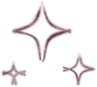
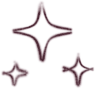
부모님 섹션(별 진하게·가족사진 확대·테두리 축소·아기사진 위치 변경), 편지 섹션 제목 제거 및 신랑 편지 하단 페이드·갤러리 사이 흰 여백 제거, 계좌 3건 추가 및 연락하기 버튼 제거

Changed region(s): [[0.1053, 0.046, 0.7789, 0.7126], [0.6316, 0.5977, 0.9895, 0.9885], [0.0, 0.6667, 0.3158, 0.9885]]

diff --git a/css/style.css b/css/style.css
@@ -399,15 +399,15 @@ body {
 .letter {
   background: #fff;
   color: #1c1a1a;
-  padding-left: 0;
-  padding-right: 0;
+  padding: 0 0 0;   /* 제목이 없으므로 위·아래 여백 없이 사진으로 바로 시작 */
 }
 .letter .section__label { color: #c0607a; }
 .letter .section__title { color: #1c1a1a; }
 .letter .section__title::after { background: #c0607a; opacity: .7; }
 
 .lt { margin-top: 46px; background: #fff; }
-.lt:first-child { margin-top: 30px; }
+.lt:first-child { margin-top: 0; }
+.lt:last-child .lt__frame { margin-bottom: 0; }
 /* 손글씨 — 사진 위 흰 여백에 */
 .lt__hand {
   margin: 0 9% 22px;
@@ -433,6 +433,19 @@ body {
     #fff 0%, rgba(255,255,255,.97) 12%, rgba(255,255,255,.78) 34%,
     rgba(255,255,255,.45) 58%, rgba(255,255,255,.16) 80%, rgba(255,255,255,0) 100%);
 }
+/* 첫 번째(신랑 → 신부) 편지는 사진 아래쪽도 흰색으로 사라지게 */
+.lt__fade--bottom {
+  position: absolute;
+  left: 0; right: 0; bottom: 0;
+  height: 34%;
+  pointer-events: none;
+  background: linear-gradient(0deg,
+    #fff 0%, rgba(255,255,255,.95) 16%, rgba(255,255,255,.7) 42%,
+    rgba(255,255,255,.32) 70%, rgba(255,255,255,0) 100%);
+}
+/* 첫 편지 위쪽 여백 (제목을 없앤 자리) */
+.lt:first-child .lt__hand { margin-top: 64px; }
+
 /* 스캔한 손편지를 그대로 올릴 때 */
 .lt--scan { padding: 0 22px; }
 .lt--scan img { display: block; width: 100%; }
@@ -1428,13 +1441,13 @@ body.no-scroll { overflow: hidden; height: 100vh; }
 .parents__photo {
   position: relative;
   display: inline-block;
-  max-width: 78%;
+  max-width: 92%;
   background: #fff;
-  padding: 9px 9px 13px;
+  padding: 6px 6px 9px;
   box-shadow: 0 10px 26px rgba(120, 60, 80, .2);
   transform: rotate(-1.6deg);
 }
-.parents__photo img:first-child { display: block; width: 100%; }
+.parents__photo > img:not(.parents__sticker) { display: block; width: 100%; }
 .parents__photo::after {
   content: "";
   position: absolute;
@@ -1450,17 +1463,19 @@ body.no-scroll { overflow: hidden; height: 100vh; }
   z-index: 2;
   filter: drop-shadow(0 6px 12px rgba(90, 40, 55, .3));
 }
+/* 아기1 — 가족사진 좌상단 */
 .parents__sticker--1 {
-  width: 108px;
-  right: -30px;
-  bottom: -36px;
-  transform: rotate(7deg);
+  width: 104px;
+  left: -24px;
+  top: -32px;
+  transform: rotate(-8deg);
 }
+/* 아기2 — 부모님 편지 우하단 */
 .parents__sticker--2 {
-  width: 92px;
-  left: -28px;
-  top: -30px;
-  transform: rotate(-9deg);
+  width: 98px;
+  right: -20px;
+  bottom: -34px;
+  transform: rotate(7deg);
 }
 
 /* 아기 사진 주변 손그림 아이콘 (연필 스케치 스캔 이미지) */
@@ -1470,17 +1485,17 @@ body.no-scroll { overflow: hidden; height: 100vh; }
   display: block;
   height: auto;
   pointer-events: none;
-  opacity: .78;
+  opacity: .9;
   mix-blend-mode: multiply;   /* 연필이 종이에 스며든 느낌 */
 }
 .parents__doodle--d1 { right: -36px; top: -26px; transform: rotate(9deg); }
 .parents__doodle--d2 { left: -46px; bottom: -32px; transform: rotate(-6deg); }
-.parents__doodle--d3 { left: -32px; top: 42%; transform: rotate(-14deg); opacity: .66; }
+.parents__doodle--d3 { left: -32px; top: 42%; transform: rotate(-14deg); opacity: .9; }
 .parents__doodle--d4 { left: 36%; bottom: -50px; transform: rotate(8deg); opacity: .7; }
 /* 별은 여기저기 흩뿌리듯 */
-.parents__doodle--d5 { right: -26px; top: 34%; transform: rotate(16deg); opacity: .58; }
-.parents__doodle--d6 { left: 22%; top: -30px; transform: rotate(-20deg); opacity: .5; }
-.parents__doodle--d7 { right: 16%; bottom: -40px; transform: rotate(24deg); opacity: .52; }
+.parents__doodle--d5 { right: -26px; top: 34%; transform: rotate(16deg); opacity: .82; }
+.parents__doodle--d6 { left: 22%; top: -30px; transform: rotate(-20deg); opacity: .74; }
+.parents__doodle--d7 { right: 16%; bottom: -40px; transform: rotate(24deg); opacity: .78; }
 
 /* 손편지 — 살짝 기울인 카드 + 테이프 */
 .parents__letter {
@@ -1491,7 +1506,7 @@ body.no-scroll { overflow: hidden; height: 100vh; }
   box-shadow: 0 12px 28px rgba(120, 60, 80, .18);
   border-radius: 4px;
 }
-.parents__letter img { display: block; width: 100%; border-radius: 4px; }
+.parents__letter > img:not(.parents__sticker) { display: block; width: 100%; border-radius: 4px; }
 .parents__letter::before {
   content: "";
   position: absolute;

diff --git a/js/main.js b/js/main.js
@@ -160,31 +160,6 @@
       </p>`;
   }
 
-  /* ---------- 연락하기 모달 ---------- */
-  function renderContacts() {
-    const rows = [
-      { role: "신랑", name: C.groom.name, phone: C.groom.phone },
-      { role: "신부", name: C.bride.name, phone: C.bride.phone },
-    ];
-    $("#contact-list").innerHTML = rows.map((r) => `
-      <div class="contact-row">
-        <div>
-          <div class="contact-row__role">${r.role}</div>
-          <div>${r.name}</div>
-        </div>
-        <div class="contact-row__links">
-          <a href="tel:${r.phone}" aria-label="${r.role}에게 전화">📞</a>
-          <a href="sms:${r.phone}" aria-label="${r.role}에게 문자">✉</a>
-        </div>
-      </div>`).join("");
-
-    $("#contact-open").addEventListener("click", () => ($("#contact-modal").hidden = false));
-    $("#contact-close").addEventListener("click", () => ($("#contact-modal").hidden = true));
-    $("#contact-modal").addEventListener("click", (e) => {
-      if (e.target === e.currentTarget) e.currentTarget.hidden = true;
-    });
-  }
-
   /* ═══════════ 3.5 부모님의 편지 ═══════════ */
 
   /* ── 아기 사진 옆 손그림 아이콘 (연필로 그려 스캔한 이미지) ── */
@@ -233,12 +208,12 @@
         <div class="parents__photo">
           <img src="${s.family}" alt="${s.who} 가족 사진" loading="lazy" />
           ${babies[0] ? `<img class="parents__sticker parents__sticker--1" src="${babies[0]}" alt="${s.who} 어린 시절" loading="lazy" />` : ""}
-          ${babies[1] ? `<img class="parents__sticker parents__sticker--2" src="${babies[1]}" alt="${s.who} 어린 시절" loading="lazy" />` : ""}
           ${doodleHtml(alt)}
         </div>` : ""}
         ${s.letterImage ? `
         <div class="parents__letter">
           <img src="${s.letterImage}" alt="${s.who} 부모님의 편지" loading="lazy" />
+          ${babies[1] ? `<img class="parents__sticker parents__sticker--2" src="${babies[1]}" alt="${s.who} 어린 시절" loading="lazy" />` : ""}
         </div>` : ""}
       </div>`;
     };
@@ -268,6 +243,7 @@
           <div class="lt__frame">
             <img class="lt__img" src="${l.photo}" alt="" loading="lazy" />
             <span class="lt__fade"></span>
+            ${isGroom ? `<span class="lt__fade--bottom"></span>` : ""}
           </div>` : ""}
         </div>`;
     }).join("");
@@ -744,7 +720,6 @@
     initSplash();
     renderIntro();
     renderGreeting();
-    renderContacts();
     renderLetters();
     renderParents();
     renderGallery();

diff --git a/index.html b/index.html
@@ -114,8 +114,6 @@
 
     <!-- ═══════════ 3. 러브레터 ═══════════ -->
     <section class="section letter">
-      <p class="section__label reveal">LOVE LETTER</p>
-      <h2 class="section__title reveal">서로에게 전하는 마음</h2>
       <div id="letter-list"></div>
     </section>
 
@@ -194,7 +192,6 @@
       <h2 class="section__title reveal">마음 전하실 곳</h2>
       <p class="accounts__desc reveal">멀리서도 축하의 마음을<br/>전하고 싶으신 분들을 위해 계좌번호를 기재하였습니다.<br/><br/>소중한 축하를 보내주셔서 감사드리며,<br/>좋은 부부의 모습으로 보답하겠습니다.  </p>
       <div id="accounts-list" class="reveal"></div>
-      <button class="btn btn--outline reveal" id="contact-open">연락하기</button>
     </section>
 
     <!-- ═══════════ 8. 참석 의사 전달 (RSVP) ═══════════ -->
@@ -268,14 +265,6 @@
   </div>
 
   <!-- ═══════════ 연락하기 모달 ═══════════ -->
-  <div class="modal" id="contact-modal" hidden>
-    <div class="modal__panel">
-      <h3 class="modal__title">연락하기</h3>
-      <div id="contact-list"></div>
-      <button class="btn btn--outline modal__close" id="contact-close">닫기</button>
-    </div>
-  </div>
-
   <!-- ═══════════ 토스트 알림 ═══════════ -->
   <div class="toast" id="toast" hidden></div>
 

diff --git a/js/config.js b/js/config.js
@@ -149,11 +149,11 @@ const WEDDING_CONFIG = {
   accounts: {
     groomSide: [
       { holder: "김형규", relation: "신랑", bank: "은행명", number: "계좌번호 입력", phone: "010-6383-1547", kakaopay: "" },
-      { holder: "김정수", relation: "혼주", bank: "은행명", number: "계좌번호 입력", phone: "", kakaopay: "" },
-      { holder: "정인선", relation: "혼주", bank: "은행명", number: "계좌번호 입력", phone: "", kakaopay: "" },
+      { holder: "김정수", relation: "혼주", bank: "농협", number: "421034-52-064544", phone: "010-5459-1547", kakaopay: "" },
+      { holder: "정인선", relation: "혼주", bank: "농협", number: "211-02-185444", phone: "010-4078-9153", kakaopay: "" },
     ],
     brideSide: [
-      { holder: "방현진", relation: "신부", bank: "은행명", number: "계좌번호 입력", phone: "010-3198-2090", kakaopay: "" },
+      { holder: "방현진", relation: "신부", bank: "국민", number: "026402-04-147985", phone: "010-3198-2090", kakaopay: "" },
       { holder: "방제연", relation: "혼주", bank: "은행명", number: "계좌번호 입력", phone: "", kakaopay: "" },
       { holder: "곽명임", relation: "혼주", bank: "은행명", number: "계좌번호 입력", phone: "", kakaopay: "" },
     ],
